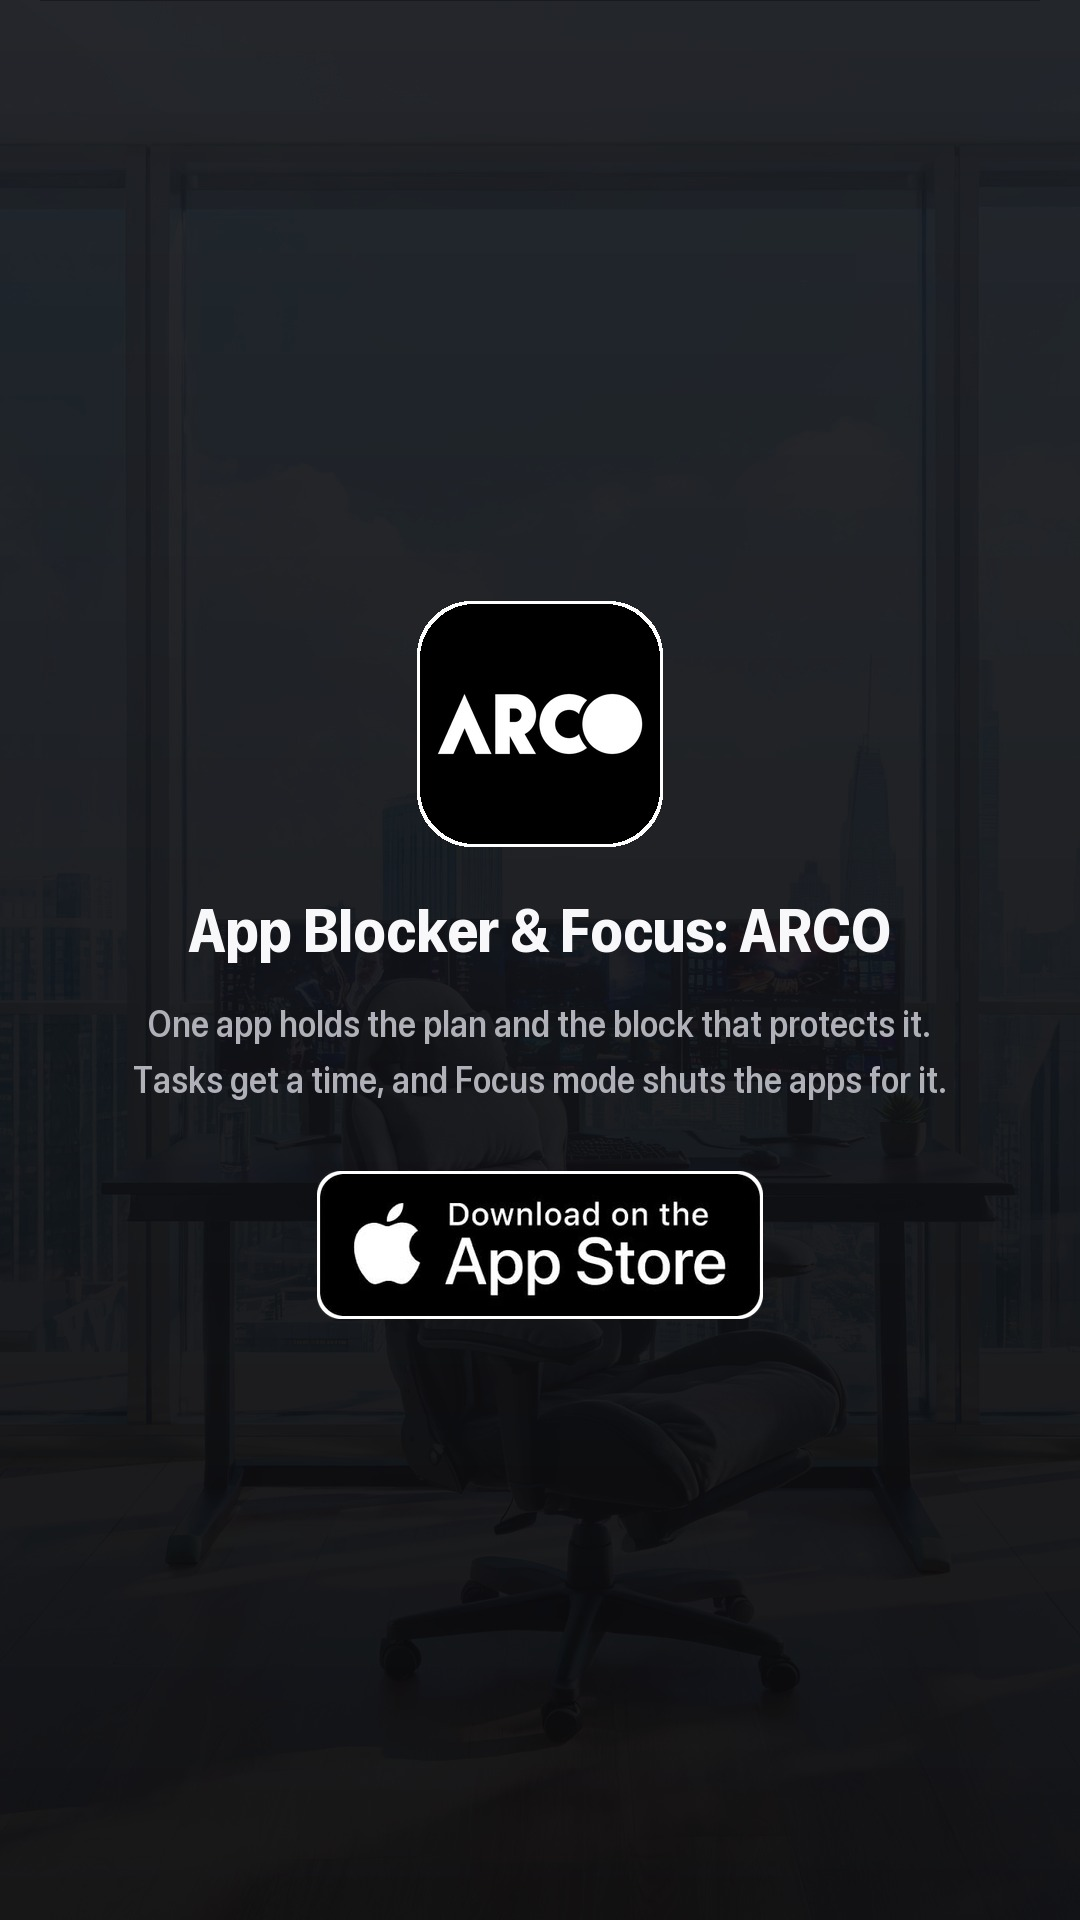
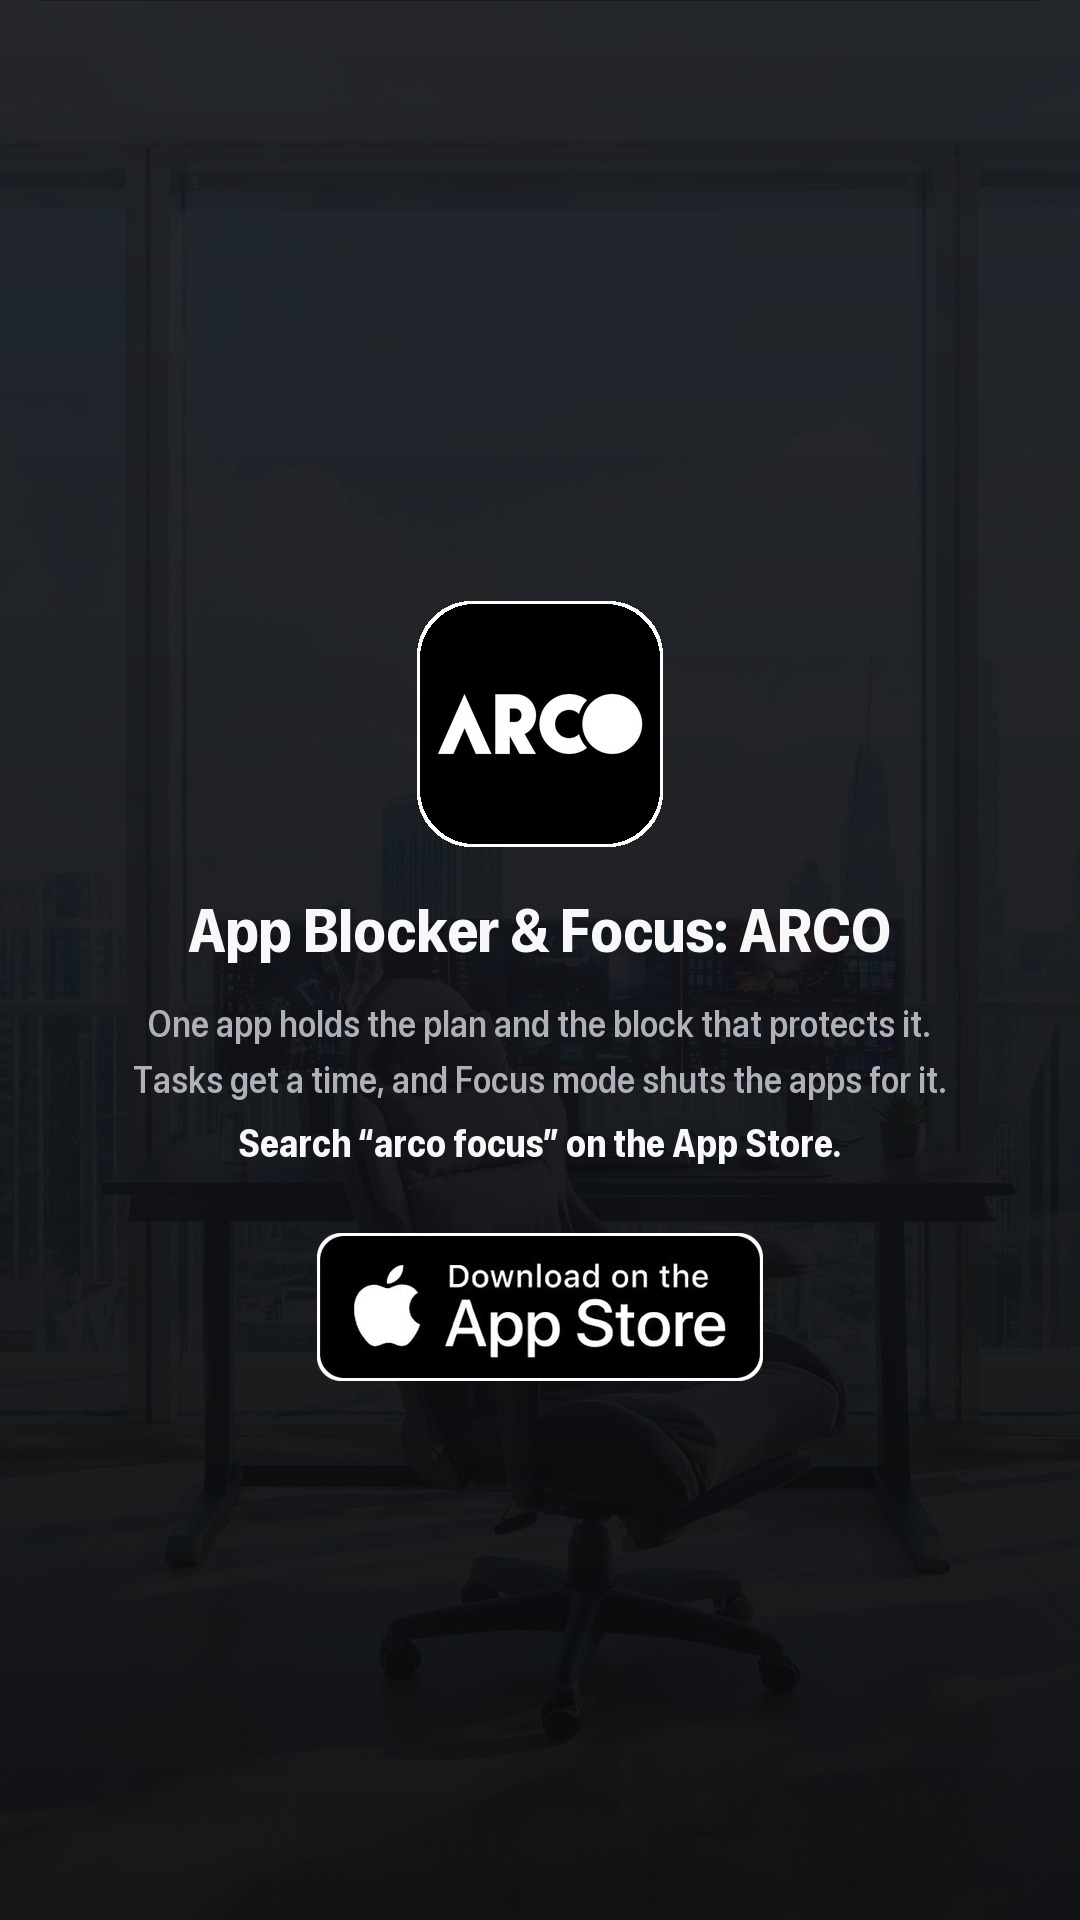
launch-weekend-screens: search "arco focus" on the App Store on card 06

Changed region(s): [[0.2139, 0.5938, 0.7639, 0.7188]]

diff --git a/tools/_veiled_screens.py b/tools/_veiled_screens.py
@@ -97,10 +97,11 @@ def pick_bgs(topic, n, exclude=()):
 
 
 def build(topic, hook, bgs, slides, closer, pillar='screentime', kicker=None,
-          card_style=None, only=None):
+          card_style=None, only=None, promo=None):
     """bgs: hook, one per screen, then the closing card's. `pillar` is the
     hook's own tag; discipline posts use the same screens. `kicker` is the
-    line under the hook, `card_style` extends the closing card's style.
+    line under the hook, `card_style` extends the closing card's style,
+    `promo` puts bold call-to-action lines on the card.
     `only` (slide numbers) re-renders just those slides and leaves the rest,
     and the hook and background histories, untouched."""
     out = f'{c.REPO}/drafts/{topic}'
@@ -127,7 +128,7 @@ def build(topic, hook, bgs, slides, closer, pillar='screentime', kicker=None,
 
     if want(len(slides) + 2):
         cta_slide(None, f'{out}/{len(slides) + 2:02d}.jpg', subtitle=closer,
-                  badge=True, card=veiled(bgs[-1]),
+                  promo=promo, badge=True, card=veiled(bgs[-1]),
                   style={'icon': 240, 'box': (96, 984, 520, 1400), 'name_size': 62,
                          'ink': (248, 248, 250), 'sub': (176, 176, 184),
                          **(card_style or {})})

diff --git a/tools/gen-launch-weekend-screens.py b/tools/gen-launch-weekend-screens.py
@@ -17,6 +17,9 @@ or the other screens posts.
 The closer is ARCO angle drawn once by next_arco_angle('build') and frozen
 here. Backgrounds by _veiled_screens.pick_bgs with ship-weekend-screens' set
 excluded, so two screens posts in a row do not share frames, then frozen.
+
+Thinh's fix of 2026-09-29: the card (06) carries the search CTA from
+lock-in-anyway-4, "arco focus" on the App Store, in the bold promo slot.
 """
 import sys
 from _veiled_screens import (build, TODAY, PLAN_DAY, CONTROL, GOOD_HABITS,
@@ -50,4 +53,5 @@ build(
     pillar='build',
     kicker=KICKER,
     card_style=CARD_OUTLINE,
+    promo=['Search “arco focus” on the App Store.'],
     only={int(a) for a in sys.argv[1:]} or None)
